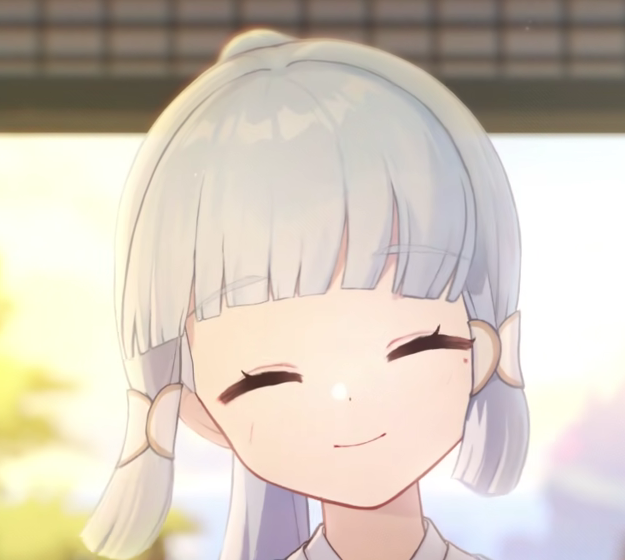
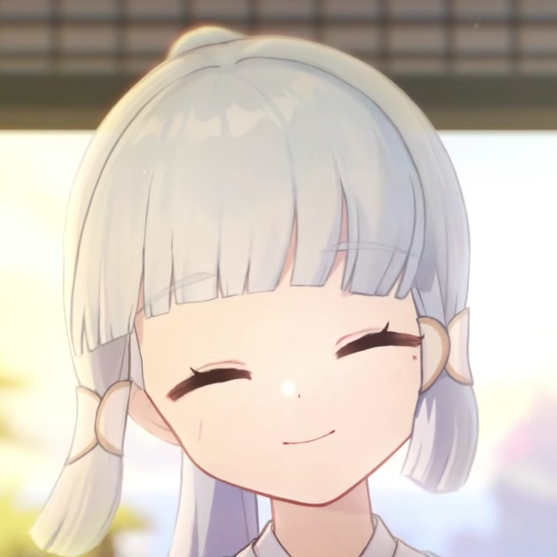
perf: optimze lighthouse

diff --git a/config.ts b/config.ts
@@ -58,7 +58,7 @@ const config = [
   {
     title: "保罗的小宇宙",
     link: "https://paugram.com",
-    avatar: "./avatar/paul.png",
+    avatar: "./avatar/paul.jpeg",
     desc: "Still single, still waiting..."
   },
   {

diff --git a/pages/_document.tsx b/pages/_document.tsx
@@ -2,7 +2,7 @@ import { Html, Head, Main, NextScript } from "next/document";
 
 export default function Document() {
   return (
-    <Html>
+    <Html lang="en">
       <Head />
       <body>
         <Main />
